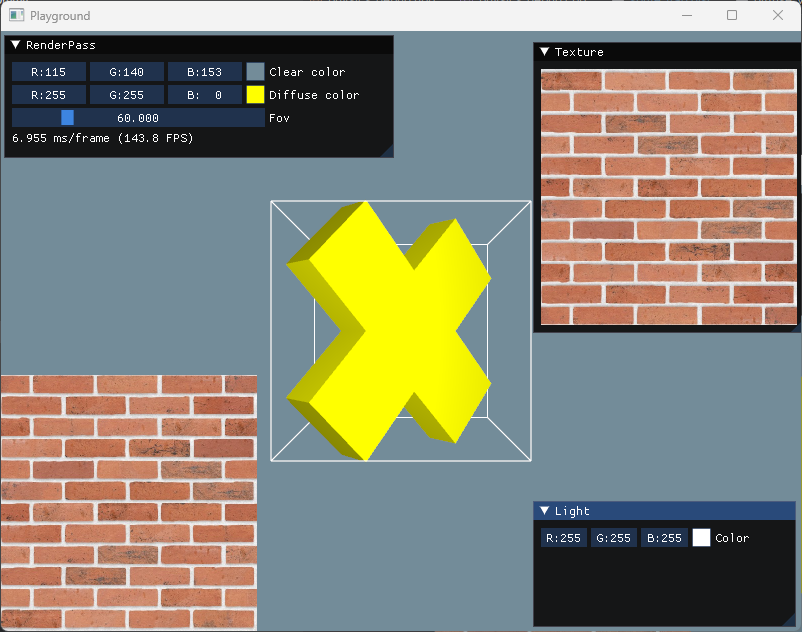
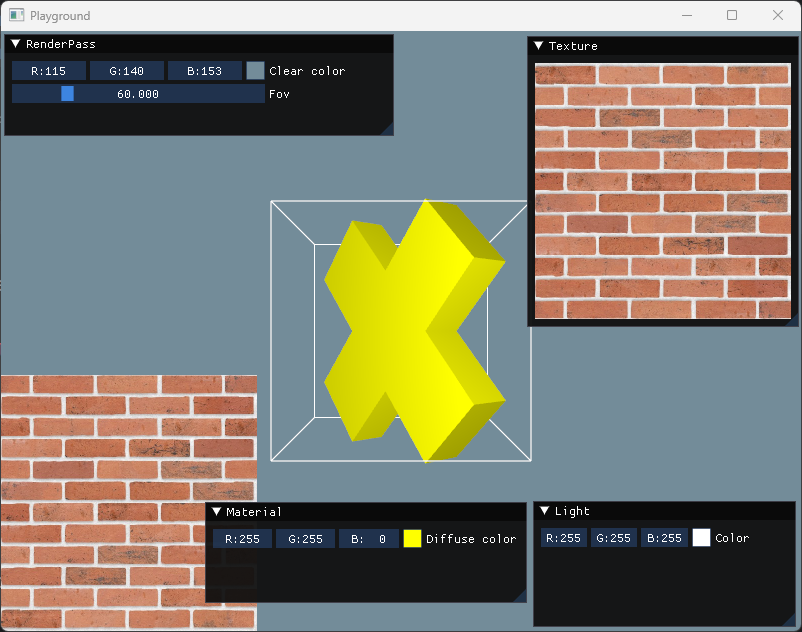
update libraries

diff --git a/Code/main.cpp b/Code/main.cpp
@@ -11,14 +11,20 @@
 #include "importer.hpp"
 #include "light.hpp"
 #include "physics.hpp"
+
+#include <btBulletCollisionCommon.h>
+#include <stb_image.h>
+
+// ==================================================================================
+
 #include "editor.hpp"
+#include "physics_debug.hpp"
 #include "light_window.hpp"
+#include "material_window.hpp"
 
 #include <backends/imgui_impl_glfw.h>
 
-#include <btBulletCollisionCommon.h>
-
-#include <stb_image.h>
+// ==================================================================================
 
 #define USE_GLFW
 #ifdef  USE_GLFW
@@ -212,6 +218,7 @@ int main()
 
     MeshGeometry<vertex::sprite> square_geometry;
 
+    square_geometry.begin();
     square_geometry.add_vertex({{  128.0f,  128.0f }, { 1.0f, 1.0f } });
     square_geometry.add_vertex( {{  128.0f, -128.0f }, { 1.0f, 0.0f } });
     square_geometry.add_vertex({{ -128.0f, -128.0f }, { 0.0f, 0.0f } });
@@ -219,6 +226,7 @@ int main()
 
     square_geometry.add_face(0, 1, 3);
     square_geometry.add_face(1, 2, 3);
+    square_geometry.end();
 
     std::vector<vertex_attribute> sprite_vertex_attributes =
     {
@@ -242,8 +250,7 @@ int main()
 
     // ==================================================================================
 
-    Material x_material;
-    x_material.diffuse = { 1.0f, 1.0f, 0.0f };
+    Material x_material { { 1.0f, 1.0f, 0.0f } };
 
     // ==================================================================================
 
@@ -295,8 +302,11 @@ int main()
 
     // ==================================================================================
 
-    Physics physics;
+    Physics    physics;
+    PhysicsDebug debug;
+
     physics.init();
+    physics.add_debug(&debug);
 
     btCollisionShape* x_shape = new btBoxShape({ 1.0f, 1.0f, 1.0f });
     physics.add_collision(1, x_shape, { });
@@ -309,7 +319,11 @@ int main()
     LightWindow light_window;
     light_window.set_light(&directional_light);
 
+    MaterialWindow material_window;
+    material_window.set_material(&x_material);
+
     editor.add_window(&light_window);
+    editor.add_window(&material_window);
 
     // ==================================================================================
 
@@ -363,7 +377,6 @@ int main()
 
         ImGui::Begin("RenderPass");
         ImGui::ColorEdit3("Clear color", (float*) &clear_color, ImGuiColorEditFlags_NoOptions);
-        ImGui::ColorEdit3("Diffuse color", (float*) &x_material.diffuse, ImGuiColorEditFlags_NoOptions);
         ImGui::SliderFloat("Fov", &fov, 45, 120);
 
         //ImGui::Text("%.3f ms/frame (%.1f FPS)", 1000.0f / io.Framerate, io.Framerate);
@@ -405,9 +418,9 @@ int main()
         // ==================================================================================
 
         matrices[0] = glm::mat4(1.0f);
-        matrices_buffer.data(BufferData::make_data(matrices));
+        matrices_buffer.sub_data(BufferData::make_data(&matrices[0]), 0);
 
-        const MeshGeometry<vertex::debug>& geometry = physics.physics_debug()->geometry();
+        const MeshGeometry<vertex::debug>& geometry = debug.geometry();
 
         debug_program.bind();
 
@@ -423,7 +436,7 @@ int main()
         matrices[1] = ortho_camera_transform.matrix();
         matrices[2] = ortho_camera.projection();
 
-        matrices_buffer.data(BufferData::make_data(matrices));
+        matrices_buffer.sub_data(BufferData::make_data(matrices));
 
         sprite_program.bind();
         test_texture.bind();
